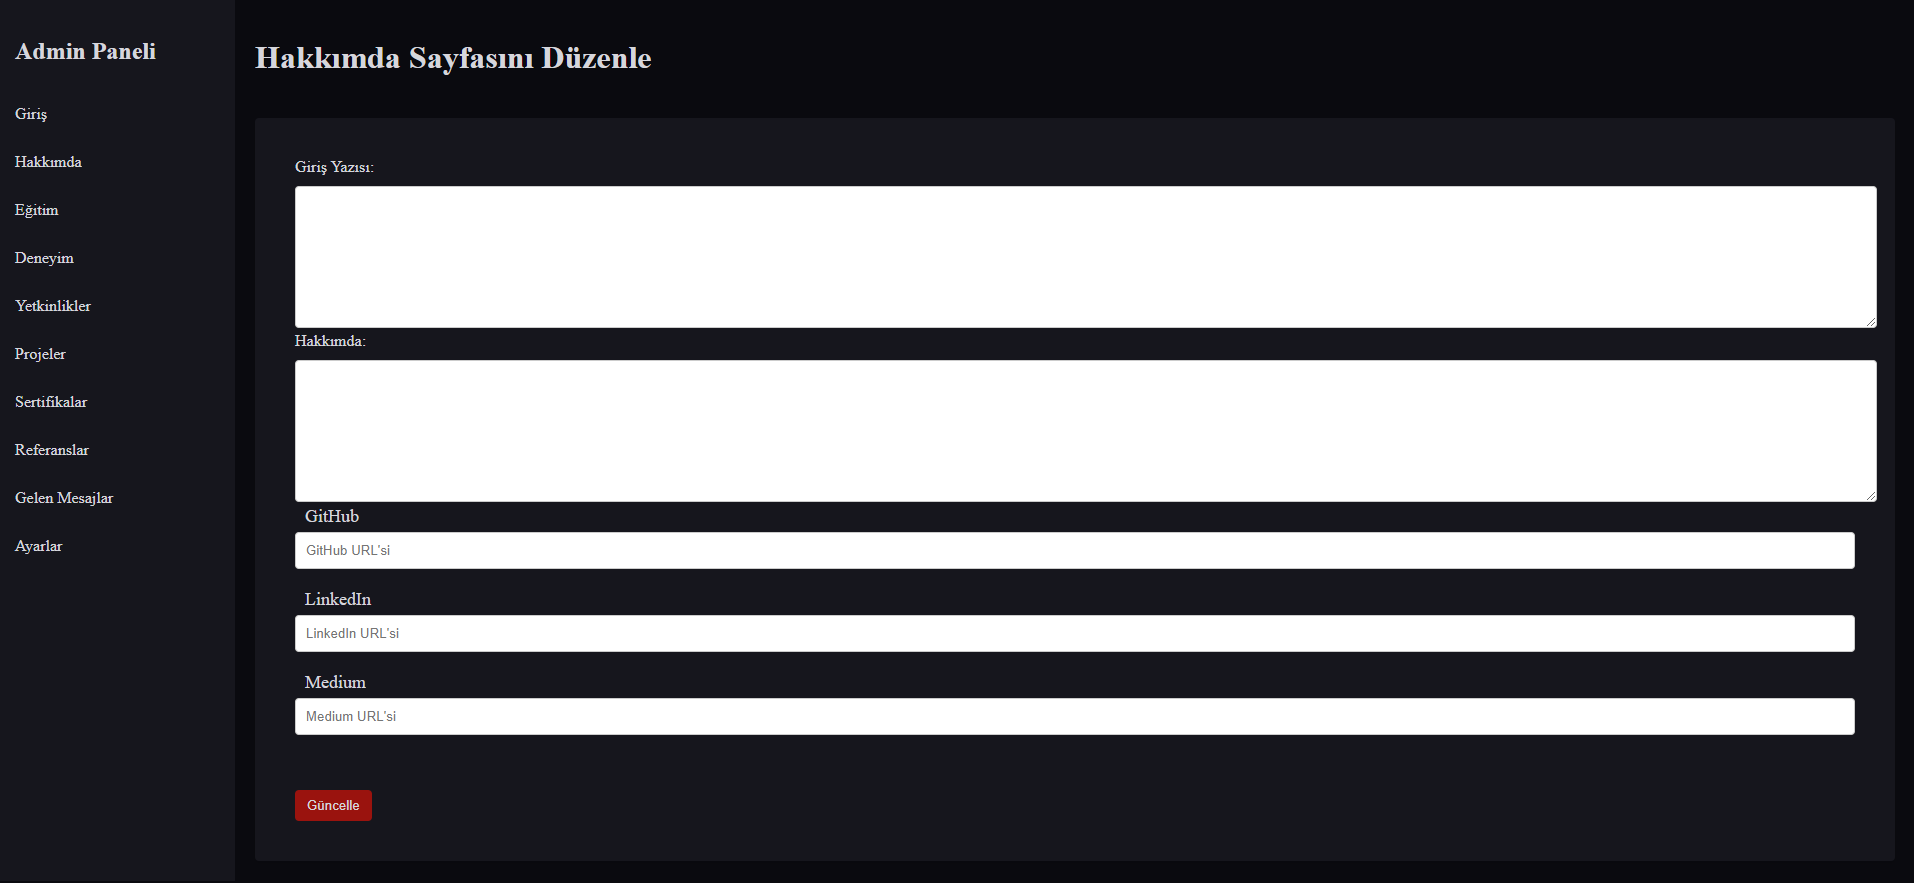
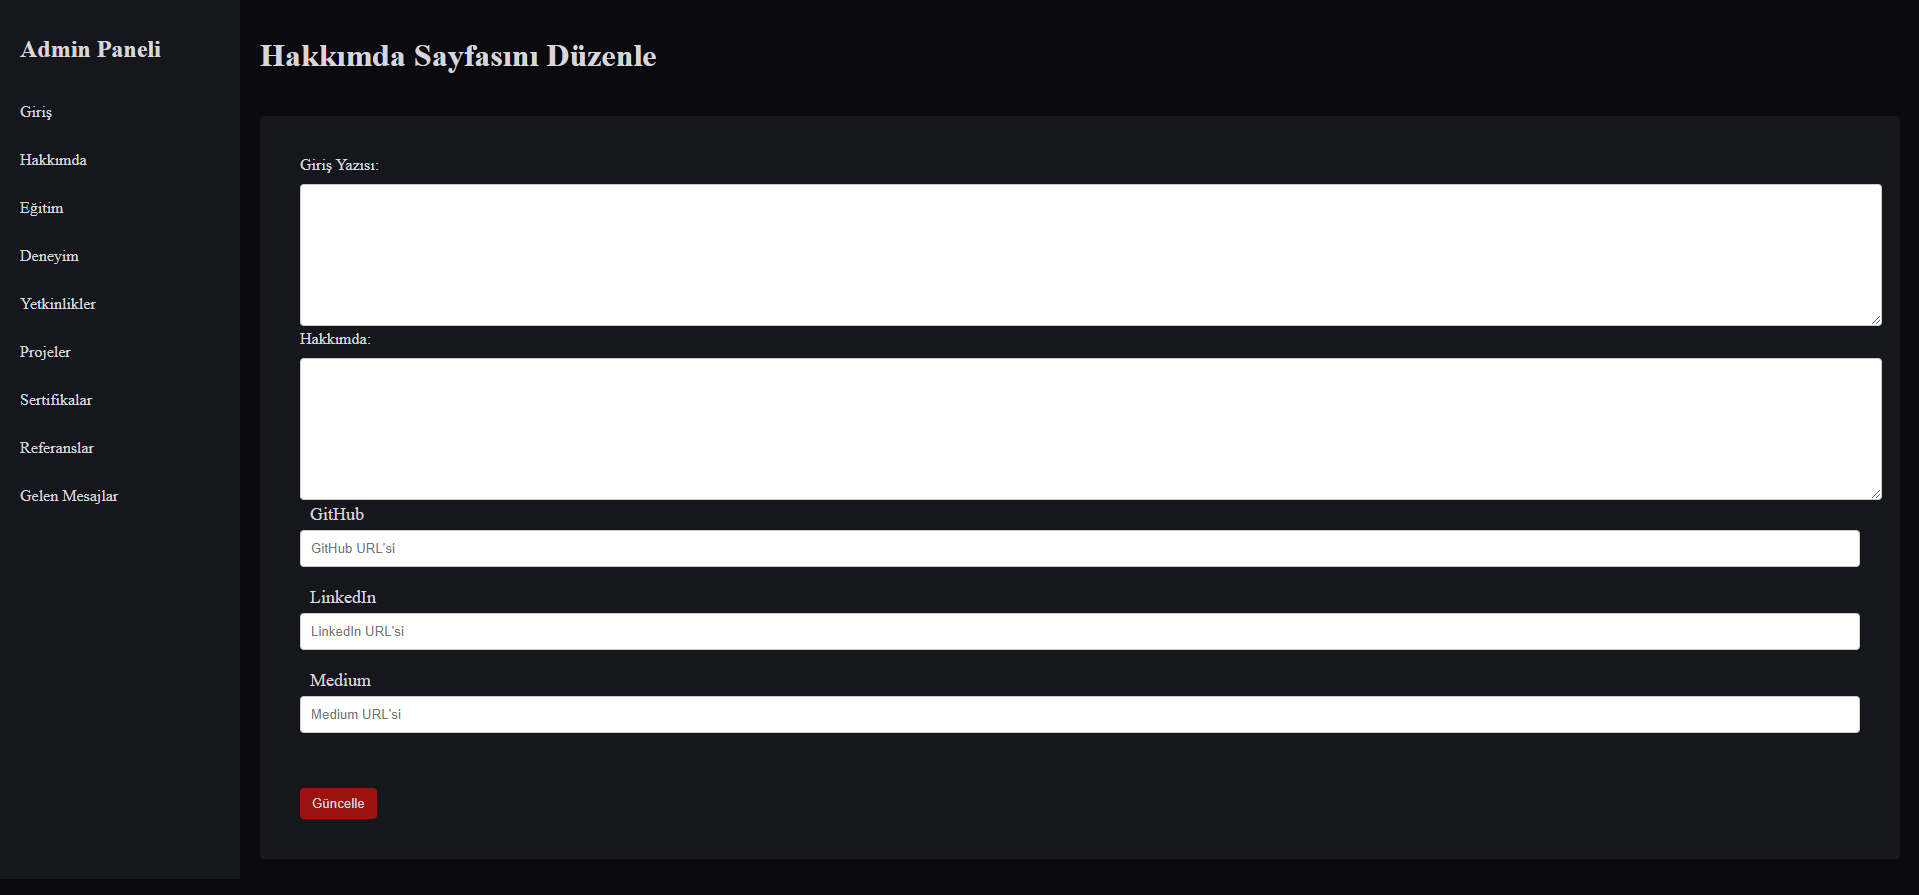
duzen

diff --git a/admin/sertifika.php b/admin/sertifika.php
@@ -48,7 +48,7 @@ if (isset($_GET['delete'])) {
 // Silme işlemi onaylandıktan sonra gerçekleştirilecek işlem
 if (isset($_GET['confirmedDelete'])) {
     $id = $_GET['confirmedDelete'];
-    $sql = "DELETE FROM proje WHERE id=$id";
+    $sql = "DELETE FROM sertifika WHERE id=$id";
     if ($baglan->query($sql) === TRUE) {
         header("Location: sertifika.php");
     } else {
@@ -98,7 +98,6 @@ if ($_SERVER['REQUEST_METHOD'] == 'POST' && isset($_POST['update'])) {
                 <li><a href="sertifika.php">Sertifikalar</a></li>
                 <li><a href="referans.php">Referanslar</a></li>
                 <li><a href="mesaj.php">Gelen Mesajlar</a></li>
-                <li><a href="ayarlar.php">Ayarlar</a></li>
             </ul>
         </div>
         <div class="main-content">

diff --git a/admin/referans.php b/admin/referans.php
@@ -30,7 +30,7 @@ if (isset($_GET['delete'])) {
 // Silme işlemi onaylandıktan sonra gerçekleştirilecek işlem
 if (isset($_GET['confirmedDelete'])) {
     $id = $_GET['confirmedDelete'];
-    $sql = "DELETE FROM proje WHERE id=$id";
+    $sql = "DELETE FROM referans WHERE id=$id";
     if ($baglan->query($sql) === TRUE) {
         header("Location: referans.php");
     } else {
@@ -80,7 +80,6 @@ if ($_SERVER["REQUEST_METHOD"] == "POST" && isset($_POST['update'])) {
                 <li><a href="sertifika.php">Sertifikalar</a></li>
                 <li><a href="referans.php">Referanslar</a></li>
                 <li><a href="mesaj.php">Gelen Mesajlar</a></li>
-                <li><a href="ayarlar.php">Ayarlar</a></li>
             </ul>
         </div>
         <div class="main-content">

diff --git a/admin/deneyim.php b/admin/deneyim.php
@@ -30,7 +30,7 @@ if (isset($_GET['delete'])) {
 // Silme işlemi onaylandıktan sonra gerçekleştirilecek işlem
 if (isset($_GET['confirmedDelete'])) {
     $id = $_GET['confirmedDelete'];
-    $sql = "DELETE FROM proje WHERE id=$id";
+    $sql = "DELETE FROM deneyim WHERE id=$id";
     if ($baglan->query($sql) === TRUE) {
         header("Location: deneyim.php");
     } else {
@@ -80,7 +80,6 @@ if ($_SERVER["REQUEST_METHOD"] == "POST" && isset($_POST['update'])) {
                 <li><a href="sertifika.php">Sertifikalar</a></li>
                 <li><a href="referans.php">Referanslar</a></li>
                 <li><a href="mesaj.php">Gelen Mesajlar</a></li>
-                <li><a href="ayarlar.php">Ayarlar</a></li>
             </ul>
         </div>
         <div class="main-content">

diff --git a/admin/egitim.php b/admin/egitim.php
@@ -30,7 +30,7 @@ if (isset($_GET['delete'])) {
 // Silme işlemi onaylandıktan sonra gerçekleştirilecek işlem
 if (isset($_GET['confirmedDelete'])) {
     $id = $_GET['confirmedDelete'];
-    $sql = "DELETE FROM proje WHERE id=$id";
+    $sql = "DELETE FROM egitim WHERE id=$id";
     if ($baglan->query($sql) === TRUE) {
         header("Location: egitim.php");
     } else {
@@ -82,7 +82,6 @@ if ($_SERVER["REQUEST_METHOD"] == "POST" && isset($_POST['update'])) {
                 <li><a href="sertifika.php">Sertifikalar</a></li>
                 <li><a href="referans.php">Referanslar</a></li>
                 <li><a href="mesaj.php">Gelen Mesajlar</a></li>
-                <li><a href="ayarlar.php">Ayarlar</a></li>
             </ul>
         </div>
         <div class="main-content">

diff --git a/admin/yetkinlikler.php b/admin/yetkinlikler.php
@@ -81,7 +81,7 @@ if ($_SERVER['REQUEST_METHOD'] == 'POST' && isset($_POST['update'])) {
                 <li><a href="sertifika.php">Sertifikalar</a></li>
                 <li><a href="referans.php">Referanslar</a></li>
                 <li><a href="mesaj.php">Gelen Mesajlar</a></li>
-                <li><a href="ayarlar.php">Ayarlar</a></li>
+                
             </ul>
         </div>
         <div class="main-content">

diff --git a/admin/projelerim.php b/admin/projelerim.php
@@ -98,7 +98,6 @@ if ($_SERVER['REQUEST_METHOD'] == 'POST' && isset($_POST['update'])) {
                 <li><a href="sertifika.php">Sertifikalar</a></li>
                 <li><a href="referans.php">Referanslar</a></li>
                 <li><a href="mesaj.php">Gelen Mesajlar</a></li>
-                <li><a href="ayarlar.php">Ayarlar</a></li>
             </ul>
         </div>
         <div class="main-content">

diff --git a/admin/admin.php b/admin/admin.php
@@ -40,7 +40,6 @@ if(isset($_POST['logout'])) {
                 <li><a href="sertifika.php">Sertifikalar</a></li>
                 <li><a href="referans.php">Referanslar</a></li>
                 <li><a href="mesaj.php">Gelen Mesajlar</a></li>
-                <li><a href="ayarlar.php">Ayarlar</a></li>
             </ul>
         </aside>
         <!-- Ana içerik alanı -->

diff --git a/admin/mesaj.php b/admin/mesaj.php
@@ -39,7 +39,6 @@ if (isset($_GET['delete'])) {
                 <li><a href="sertifika.php">Sertifikalar</a></li>
                 <li><a href="referans.php">Referanslar</a></li>
                 <li><a href="mesaj.php">Gelen Mesajlar</a></li>
-                <li><a href="ayarlar.php">Ayarlar</a></li>
             </ul>
         </div>
 

diff --git a/admin/hakkimda.php b/admin/hakkimda.php
@@ -50,7 +50,6 @@ $baglan->close();
                 <li><a href="sertifika.php">Sertifikalar</a></li>
                 <li><a href="referans.php">Referanslar</a></li>
                 <li><a href="mesaj.php">Gelen Mesajlar</a></li>
-                <li><a href="ayarlar.php">Ayarlar</a></li>
             </ul>
       </div>
 
